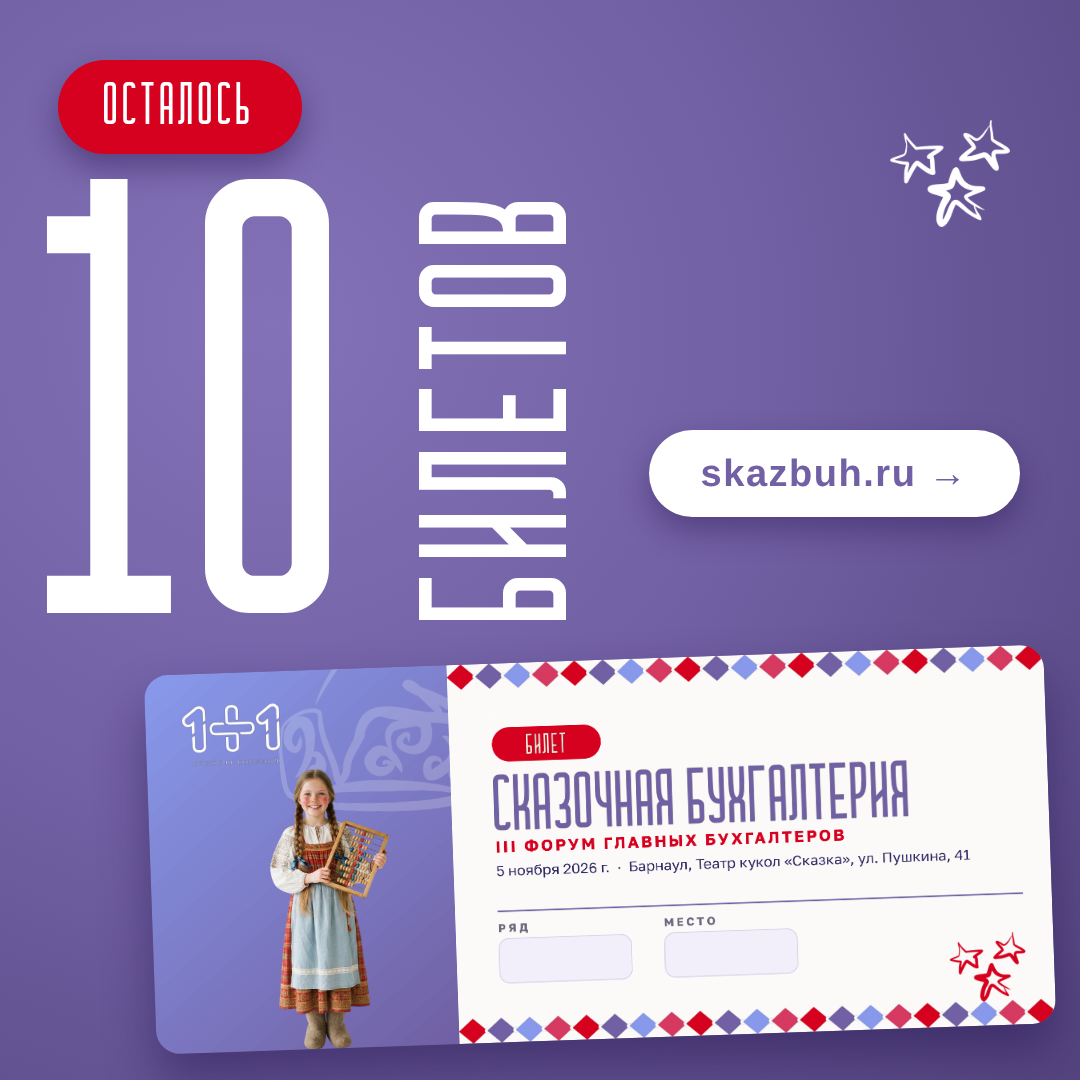
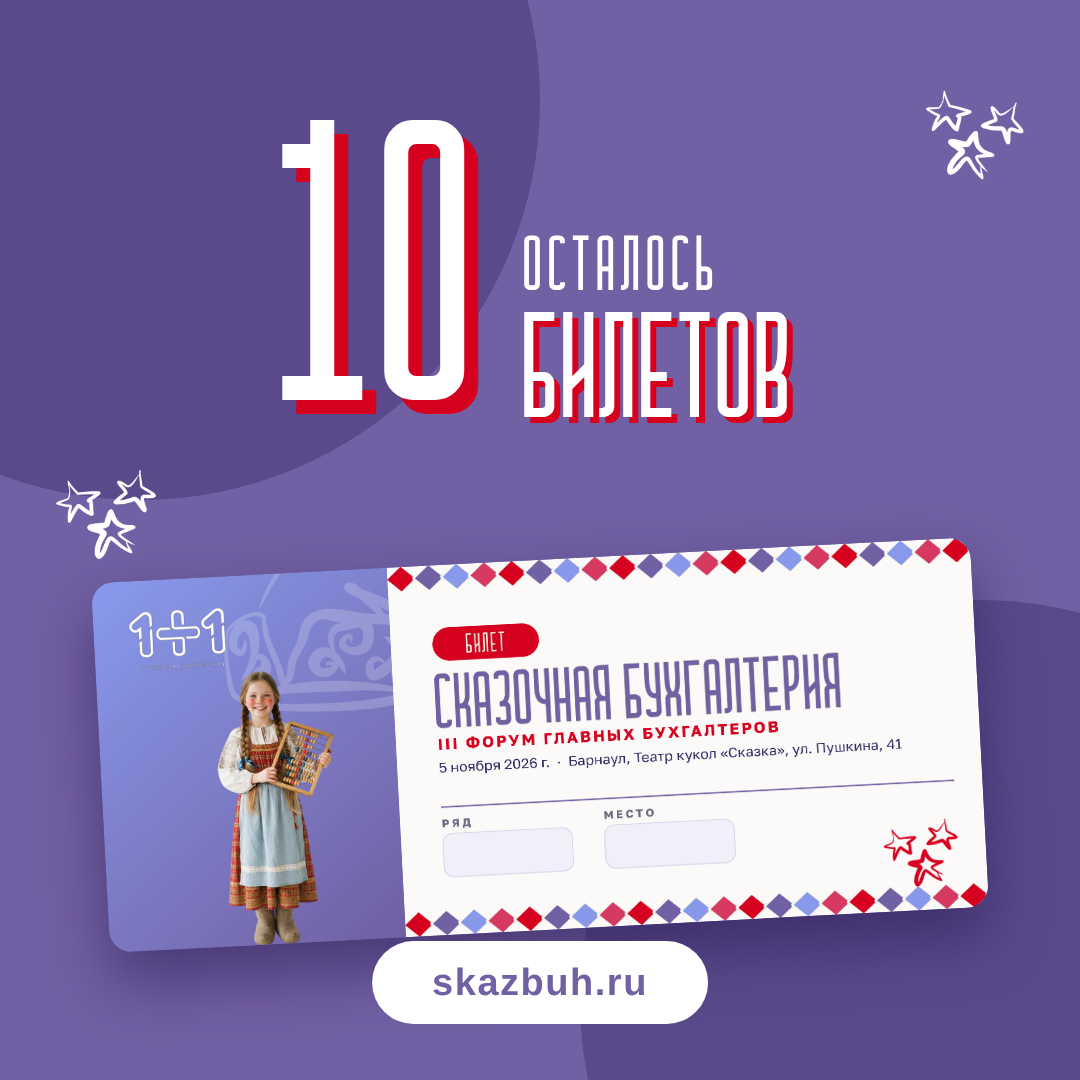
Social creatives: chosen variant, 'Осталось' moved above 'БИЛЕТОВ' right of the 10
Claude-Session: https://claude.ai/code/session_01DZEn5nyTAWE8zavBUm6caU

diff --git a/conference-skazbuh/social/story.html b/conference-skazbuh/social/story.html
@@ -1,20 +1,20 @@
-<!DOCTYPE html><html lang="ru"><head><meta charset="utf-8"><link rel="stylesheet" href="post2.css">
+<!DOCTYPE html><html lang="ru"><head><meta charset="utf-8"><link rel="stylesheet" href="post.css">
 <style>
 html,body{width:1080px;height:1920px}
-.ring.r1{left:-200px;top:140px;width:760px;height:760px}
-.ring.r2{right:-260px;bottom:120px;width:820px;height:820px}
-.pill.o{left:62px;top:262px;font-size:72px;padding:18px 54px 14px;transform:none}
-.big.n{left:54px;top:430px;font-size:760px}
-.vert.w{left:470px;top:1020px;font-size:250px;letter-spacing:.04em;text-shadow:none;transform:rotate(-90deg);transform-origin:left top}
-.ticket{left:60px;top:1100px;width:960px;transform:rotate(-2deg)}
-.btn{left:50%;margin-left:-250px;top:1600px;width:500px;text-align:center;font-size:42px;padding:24px 0;transform:none}
-.s1{right:60px;top:420px;width:140px}.s2{right:230px;top:340px;width:90px;transform:rotate(-16deg)}
-.s3{right:70px;top:830px;width:120px;transform:rotate(12deg)}
+.bgc.a{left:-300px;top:-150px;width:900px;height:900px}
+.bgc.b{right:-340px;bottom:-240px;width:960px;height:960px}
+.row{position:absolute;left:0;right:0;top:400px;display:flex;justify-content:center;align-items:flex-end;gap:40px;white-space:nowrap}
+.row .n{font-family:'Cramaten',sans-serif;font-size:640px;line-height:.8;color:#fff;text-shadow:.035em .035em 0 var(--red)}
+.row .c{display:flex;flex-direction:column;align-items:flex-start;gap:18px;padding-bottom:30px}
+.row .o{font-family:'Cramaten',sans-serif;font-size:100px;line-height:.9;color:#fff;text-transform:uppercase;letter-spacing:.06em}
+.row .w{font-family:'Cramaten',sans-serif;font-size:210px;line-height:.8;color:#fff;text-transform:uppercase;text-shadow:.04em .04em 0 var(--red)}
+.ticket{position:absolute;left:50%;margin-left:-480px;top:1020px;width:960px;border-radius:22px;box-shadow:0 30px 60px rgba(40,25,80,.55);transform:rotate(-3deg)}
+.btn{left:50%;transform:translateX(-50%);top:1520px;font-size:40px;padding:22px 64px}
+.star{width:120px}.s1{left:56px;top:330px}.s2{right:60px;top:880px;transform:rotate(18deg)}
 </style></head><body>
-<img class="star s1" src="zvezdy-w.png" alt="">
-<div class="pill o">Осталось</div>
-<div class="big n">10</div>
-<div class="vert w">билетов</div>
+<div class="bgc a"></div><div class="bgc b"></div>
+<img class="star s1" src="zvezdy-w.png" alt=""><img class="star s2" src="zvezdy-w.png" alt="">
+<div class="row"><div class="n">10</div><div class="c"><div class="o">Осталось</div><div class="w">билетов</div></div></div>
 <img class="ticket" src="ticket.png" alt="">
-<div class="btn">skazbuh.ru →</div>
+<div class="btn">skazbuh.ru</div>
 </body></html>

diff --git a/conference-skazbuh/social/square.html b/conference-skazbuh/social/square.html
@@ -1,19 +1,20 @@
-<!DOCTYPE html><html lang="ru"><head><meta charset="utf-8"><link rel="stylesheet" href="post2.css">
+<!DOCTYPE html><html lang="ru"><head><meta charset="utf-8"><link rel="stylesheet" href="post.css">
 <style>
 html,body{width:1080px;height:1080px}
-.ring.r1{left:-160px;top:-160px;width:620px;height:620px}
-.ring.r2{right:-200px;bottom:-200px;width:700px;height:700px}
-.pill.o{left:58px;top:60px;font-size:60px;padding:16px 46px 12px;transform:none}
-.big.n{left:50px;top:210px;font-size:620px}
-.vert.w{left:430px;top:620px;font-size:210px;letter-spacing:.04em;text-shadow:none;transform:rotate(-90deg);transform-origin:left top}
-.ticket{left:150px;top:660px;width:900px;transform:rotate(-2deg)}
-.btn{right:60px;top:430px;font-size:38px;padding:22px 52px;transform:none}
-.s1{right:70px;top:120px;width:120px}.s2{right:250px;top:60px;width:80px;transform:rotate(-16deg)}
+.bgc.a{left:-260px;top:-300px;width:800px;height:800px}
+.bgc.b{right:-300px;bottom:-320px;width:800px;height:800px}
+.row{position:absolute;left:0;right:0;top:140px;display:flex;justify-content:center;align-items:flex-end;gap:36px;white-space:nowrap}
+.row .n{font-family:'Cramaten',sans-serif;font-size:400px;line-height:.8;color:#fff;text-shadow:.035em .035em 0 var(--red)}
+.row .c{display:flex;flex-direction:column;align-items:flex-start;gap:14px;padding-bottom:20px}
+.row .o{font-family:'Cramaten',sans-serif;font-size:78px;line-height:.9;color:#fff;text-transform:uppercase;letter-spacing:.06em}
+.row .w{font-family:'Cramaten',sans-serif;font-size:150px;line-height:.8;color:#fff;text-transform:uppercase;text-shadow:.04em .04em 0 var(--red)}
+.ticket{position:absolute;left:50%;margin-left:-440px;top:560px;width:880px;border-radius:22px;box-shadow:0 30px 60px rgba(40,25,80,.55);transform:rotate(-3deg)}
+.btn{left:50%;transform:translateX(-50%);bottom:56px;font-size:38px;padding:20px 60px}
+.star{width:100px}.s1{left:56px;top:470px}.s2{right:60px;top:90px;transform:rotate(18deg)}
 </style></head><body>
-<img class="star s1" src="zvezdy-w.png" alt="">
-<div class="pill o">Осталось</div>
-<div class="big n">10</div>
-<div class="vert w">билетов</div>
+<div class="bgc a"></div><div class="bgc b"></div>
+<img class="star s1" src="zvezdy-w.png" alt=""><img class="star s2" src="zvezdy-w.png" alt="">
+<div class="row"><div class="n">10</div><div class="c"><div class="o">Осталось</div><div class="w">билетов</div></div></div>
 <img class="ticket" src="ticket.png" alt="">
-<div class="btn">skazbuh.ru →</div>
+<div class="btn">skazbuh.ru</div>
 </body></html>
